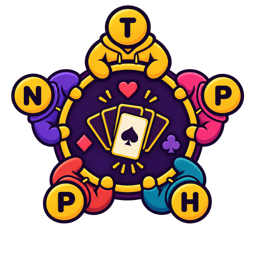
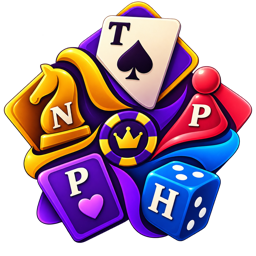
New mark: the five of you, on five kinds of piece
The old logo was five figures around a card table, which fixed the brand to
cards while the board is filling up with games that use none. The new one keeps
the five initials and puts each on a different piece — a playing card, a chess
knight, a pawn, a die — around a chip in the middle, so it still says who this
was built for without saying it is only about cards.

The artwork is 1239x1269 rather than 1312x1199, so the declared proportions move
with it; sizing stays by height, and the favicon is recut from a centred square.

diff --git a/src/components/Logo.tsx b/src/components/Logo.tsx
@@ -4,11 +4,11 @@ import Link from 'next/link';
 /**
  * The site's mark and wordmark.
  *
- * The mark is the five friends this was built for, sat around a table with a
- * hand of cards in the middle — T, N, P, P and H, one chip each. It is the
- * origin story drawn: the table they lost when they moved apart. Cards because
- * that is what is on the board today; the seats are what still make sense once
- * the board holds games that use none.
+ * The mark is the five friends this was built for — T, N, P, P and H — each on
+ * a different piece: a playing card, a chess knight, a pawn, a card again, a
+ * die, around a chip in the middle. It is the origin story drawn, and it holds
+ * up as the board grows: the pieces already reach past cards, which is where
+ * the games are going.
  *
  * The wordmark keeps the split the loading screen already used — "Dehel" plain
  * and "पकड़" lit — so the logo and the splash are recognisably the same brand.
@@ -21,11 +21,12 @@ export function LogoMark({ className = 'h-10 w-auto' }: { className?: string }) 
     <Image
       src="/logo.png"
       alt=""
-      // The artwork is 1312x1199, not square. Declaring its real proportions and
-      // sizing by height only keeps it from being squashed into a square box;
-      // next/image still serves a resized file rather than the megabyte on disk.
-      width={1312}
-      height={1199}
+      // The artwork is 1239x1269, a shade taller than it is wide. Declaring its
+      // real proportions and sizing by height only keeps it from being squashed
+      // into a square box; next/image still serves a resized file rather than
+      // the megabyte on disk.
+      width={1239}
+      height={1269}
       priority
       className={`object-contain ${className}`}
     />
